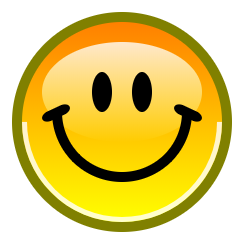
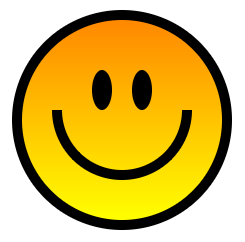
Improve chapter 'Make your own gadgets' with didactical widget.

diff --git a/content/goblins/gadgets/doit.md b/content/goblins/gadgets/doit.md
@@ -37,6 +37,8 @@ export default class Smiley extends Widget {
 }
 ```
 
+## The beginning (step 1)
+
 To get started simply, let's create a widget that shows a yellow circle:
 
 ```jsx
@@ -92,7 +94,7 @@ And unsurprisingly, we get the following result:
 
 ![step 1](/img/gadgets.doit.step1.png?width=200px)
 
-## With eyes and a smile
+## With eyes and a smile (step 2)
 
 Let's add two eyes and a smile in `widgets/smiley/widget.js`:
 
@@ -171,7 +173,113 @@ We obtain the following magnificent result:
 
 ![step 2](/img/gadgets.doit.step2.png?width=200px)
 
-## The properties
+## Nice gradient (step 3)
+
+Adding a gradient in CSS with the property `background` is child's play. First
+color `#f80` is orange at top, and second color `#ff0` is yellow at bottom:
+
+```jsx
+export default function styles() {
+  const smiley = {
+    position: 'relative',
+    width: '200px',
+    height: '200px',
+    borderRadius: '200px',
+    border: '10px solid black',
+    background: 'linear-gradient(180deg, #f80, #ff0)',
+  };
+```
+
+![step 3](/img/gadgets.doit.step3.png?width=200px)
+
+## Add reflexion (step 4)
+
+Let's add a `<div>` `reflexion1` in `widgets/smiley/widget.js`. This element is
+above the circle, but below the eyes:
+
+```jsx
+render() {
+    return (
+        <div className={this.styles.classNames.smiley}>
+            <div className={this.styles.classNames.reflexion1} />
+            <div className={this.styles.classNames.leftEye} />
+            <div className={this.styles.classNames.rightEye} />
+            <div className={this.styles.classNames.smile} />
+        </div>
+    )
+}
+```
+
+And create a new style CSS to draw an ellipse in `widgets/smiley/styles.js`:
+
+```jsx
+export default function styles() {
+  const reflexion1 = {
+      position: 'absolute',
+      left: '50px',
+      right: '50px',
+      top: '10px',
+      bottom: '80px',
+      borderRadius: '200px',
+      background: 'linear-gradient(180deg, white, #fc0)',
+      transform: 'scaleX(1.5)',
+      opacity: 0.8,
+  };
+```
+
+{{% notice info %}} We see here the ellipse bordered by a red line. Absolute
+positioning with `left`, `right`, `top` and `bottom` gives a circle. It is the
+transformation with `scaleX(1.5)` that gives an ellipse:
+![step 4](/img/gadgets.doit.step4b.png?width=200px) {{% /notice %}}
+
+![step 4](/img/gadgets.doit.step4.png?width=200px)
+
+## One more reflexion (step 5)
+
+Let's add a other `<div>` `reflexion2` in `widgets/smiley/widget.js`:
+
+```jsx
+render() {
+    return (
+        <div className={this.styles.classNames.smiley}>
+            <div className={this.styles.classNames.reflexion1} />
+            <div className={this.styles.classNames.reflexion2} />
+            <div className={this.styles.classNames.leftEye} />
+            <div className={this.styles.classNames.rightEye} />
+            <div className={this.styles.classNames.smile} />
+        </div>
+    )
+}
+```
+
+And create a new style CSS in `widgets/smiley/styles.js`:
+
+```jsx
+export default function styles() {
+  const reflexion2 = {
+      position: 'absolute',
+      left: 0,
+      right: 0,
+      top: 0,
+      bottom: 0,
+      borderStyle: 'solid',
+      borderRadius: '200px',
+      borderWidth: '5px',
+      borderColor: 'transparent white white transparent',
+      transform: 'rotate(45deg)',
+      opacity: 0.8,
+  };
+```
+
+{{% notice info %}} This element draws a semicircle, drawing a circle that has
+only the right (in red below) and bottom (in cyan below) borders, rotated 45
+degrees CW. We see here the element before the rotation:
+![step 5](/img/gadgets.doit.step5b.png?width=200px) In the final version drawn
+in the smiley face, these two borders are white, of course. {{% /notice %}}
+
+![step 5](/img/gadgets.doit.step5.png?width=200px)
+
+## The properties (step 6)
 
 Our smiley has a fixed size of `200px`. It would be cool to be able to specify
 its size using a property, and allow this to be written in the parent widget
@@ -227,20 +335,23 @@ export default function styles(theme, props) {
 }
 ```
 
-## And more...
+All other absole values `px` for eyes, smile and reflexions have to be
+calculated from the diameter (property `size`), which takes a lot of work!
+
+## And more... (step 7)
 
 With a little bit of work in the CSS, you can achieve this:
 
-![step 3](/img/gadgets.doit.step3.png?width=200px)
+![step 7](/img/gadgets.doit.step7.png?width=200px)
 
 In the final widget, it will be possible to add a `satisfaction` property (we
 see here the results with the values `100`, `75`, `50`, `25` and `0`):
 
-![step 4](/img/gadgets.doit.step4.png)
+![step 8](/img/gadgets.doit.step8.png)
 
 Why not a `color` property?
 
-![step 5](/img/gadgets.doit.step5.png)
+![step 9](/img/gadgets.doit.step9.png)
 
 To obtain these variants, just write:
 
